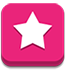
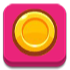
add sound effect in game

diff --git a/Game.js b/Game.js
@@ -101,11 +101,11 @@ window.onload = function () {
 
     //Set up Time Icon
     let spriteTimeIcon = new PIXI.Sprite.from("game/timer-symbol.png");
-    SetUpImage(spriteTimeIcon, true, 0.5, 0.5, -90, 0, 50, 55);
+    SetUpImage(spriteTimeIcon, true, 0.5, 0.5, -90, 0, 50, 50);
     spritePanelScore.addChild(spriteTimeIcon);
     //Set up Score Icon
     let spriteStarIcon = new this.PIXI.Sprite.from("game/score-symbol.png");
-    SetUpImage(spriteStarIcon, true, 0.5, 0.5, 30, 0, 50, 55);
+    SetUpImage(spriteStarIcon, true, 0.5, 0.5, 30, 0, 50, 50);
     spritePanelScore.addChild(spriteStarIcon);
     //Set up Score Text 
     var scoreGameText = new this.PIXI.Text(scoreGame, { fill: 'white', align: 'right', fontSize: 35 });
@@ -122,8 +122,8 @@ window.onload = function () {
     SetUpImage(powerProcess, true, 0, 0.5, 205, 0, 1, 30);
     spritePanelScore.addChild(powerProcess);
     //Set up Power icon
-    var powerIcon = new this.PIXI.Sprite.from("game/score-symbol.png");
-    SetUpImage(powerIcon, true, 0.5, 0.5, 190, 0, 50, 55);
+    var powerIcon = new this.PIXI.Sprite.from("game/power-symbol.png");
+    SetUpImage(powerIcon, true, 0.5, 0.5, 190, 0, 50, 50);
     spritePanelScore.addChild(powerIcon);
 
    
@@ -184,9 +184,8 @@ window.onload = function () {
       //Set up soud game 
         var mainSound = new SoundGame("sound/MainMusic.mp3");
         mainSound.setLoop(true);
-        var mainSoundMenu = new SoundGame("sound/MenuMusic.mp3");
-        mainSoundMenu.setLoop(true);
-      
+        var mainSoundMenu ;
+
 
     //Set Up button object
     function ButtonGame(textureIndex,x,y,width,height,layout)
@@ -267,6 +266,26 @@ window.onload = function () {
     {
         this.spriteButton.alpha = 1 ;
     }
+    ButtonGame.prototype.AnimationZoomOutAndIn = function()
+    {
+        console.log("animation buttoin");
+        var timerAutomator = setInterval(() => {
+           
+            if (this.spriteButton.width >= this.defaultWidthButton*1.1 && this.spriteButton.height >= this.defaultHeightButton*1.1)
+            {
+                console.log("1");
+                this.spriteButton.width -= 1;
+                this.spriteButton.height -= 1;
+            }
+            else if(this.spriteButton.width <= this.defaultWidthButton && this.spriteButton.height <= this.defaultHeightButton)
+            {
+                this.spriteButton.width += 1;
+                this.spriteButton.height += 1;
+            }
+            
+        }, 115);
+        
+    }
       //Set up button in game 
     //Pause Game button 
     var pauseButton = new ButtonGame('menubutton',50,650,70,70,layoutButtonInGame);
@@ -308,6 +327,8 @@ window.onload = function () {
     backToMenuButton.Click(()=>{
         inGame = false;
         ShowLayputMenu();
+        mainSoundMenu = new SoundGame("sound/MenuMusic.mp3");
+        mainSoundMenu.setLoop(true);
         mainSound.stopSound();
         mainSoundMenu.playSound();
        
@@ -455,6 +476,8 @@ window.onload = function () {
         findMatchTile(x, y);
         if (this.specialTile == true) {
             specialTileClick = true;
+            var trueClickTile = new SoundGame("sound/specialSoundTile.mp3");
+            trueClickTile.playSound();
             console.log("special tile");
             findMatchForSpecialTile(x, y);
             console.log(matches.length);
@@ -470,14 +493,20 @@ window.onload = function () {
         else {
             specialTileClick = false;
             if (matches.length == 1) {
+                var soundFalseClick = new SoundGame("sound/falseClickTile.mp3");
+                soundFalseClick.playSound();
                 console.log(false);
             }
             else {
                 findMatchTile(matches[1].shape.xCoord, matches[1].shape.yCoord);
                 if (matches.length < 3) {
+                    var soundFalseClick = new SoundGame("sound/falseClickTile.mp3");
+                    soundFalseClick.playSound();
                     console.log(false);
                 }
                 else {
+                    var trueClickTile = new SoundGame("sound/soundClickTile.mp3");
+                    trueClickTile.playSound();
                     pivot = 2;
                     while (pivot < matches.length) {
                         findMatchTile(matches[pivot].shape.xCoord, matches[pivot].shape.yCoord);
@@ -859,6 +888,8 @@ window.onload = function () {
     }
     function SetupLayoutMemuGame()
     {
+        mainSoundMenu = new SoundGame("sound/MenuMusic.mp3");
+        mainSoundMenu.setLoop(true);
        
         mainSoundMenu.playSound();
         var backgroundGame = new PIXI.Sprite.from("game/BG.png");
@@ -868,6 +899,7 @@ window.onload = function () {
         ShowLayputMenu();
         var ButtonPlayGame = new ButtonGame("buttonPlay",225,500,150,150,layoutMenuGame);
         ButtonPlayGame.ShowImmediatelyButton();
+        ButtonPlayGame.AnimationZoomOutAndIn();
         ButtonPlayGame.Click(()=>{
 
             inGame  = true;
@@ -1006,6 +1038,10 @@ window.onload = function () {
         hintSprite.width = width;
         hintSprite.height = height;
         layoutHint.addChild(hintSprite);
+    }
+    function ShowAppSelectLevelGame()
+    {
+
     }
     
     
